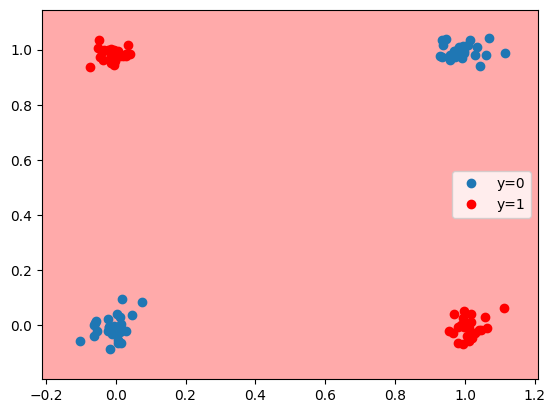
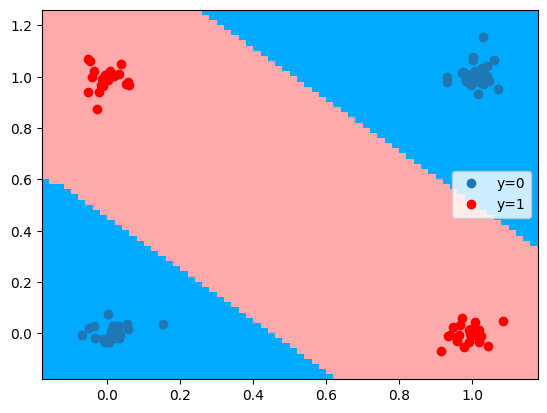
two neuron

diff --git a/Neural Network/Simple nerual network.py b/Neural Network/Simple nerual network.py
@@ -4,7 +4,6 @@ from torch.utils.data import Dataset, DataLoader    # Used to help create the da
 import torch.nn as nn                               # PyTorch Neural Network
 import matplotlib.pyplot as plt
 from matplotlib.colors import ListedColormap
-from PIL import Image
 import numpy as np
 
 
@@ -184,9 +183,9 @@ def plot_decision_regions_2class(model,data_set):
 data_set = XOR_Data()
 data_set.plot_stuff()
 
-#create a model with one neuron
+#create a model with two neuron
 
-model = Net(2,1,1)
+model = Net(2,2,1)
 
 # Train the model
 
